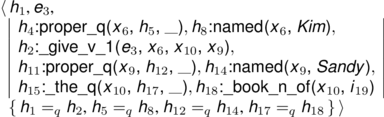
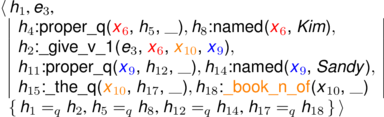
git-svn-id: http://svn.delph-in.net/erg/tags/1214@25989 3df82f5b-d43a-0410-af33-fce91db48ec5

diff --git a/www/esd/essence/kim-gave-sandy-the-book.tex b/www/esd/essence/kim-gave-sandy-the-book.tex
@@ -3,7 +3,7 @@
 \usepackage{times}
 \usepackage[utf8]{inputenc}
 \usepackage[T1]{fontenc}
-\usepackage{color}
+\usepackage{xcolor}
 
 \usepackage{../mrs}
 \rolesfalse
@@ -19,31 +19,31 @@
 
 \siblock{\sh{1}}{\svar{e}{3}{}}{%
   \sep{\sh{4}}{\spred{proper\_q\slnkc{0}{3}}}{%
-    \srole{ARG0}{\svar{x}{6}{\svp{PERS}{3}, \svp{NUM}{sg}, \svp{IND}{+}}},
+    \srole{ARG0}{\color{red}\svar{x}{6}{\svp{PERS}{3}, \svp{NUM}{sg}, \svp{IND}{+}}},
     \srole{RSTR}{\svar{h}{5}{}},
     \srole{BODY}{\srule{}}}, %\\
   \sep{\sh{8}}{\spred{named\slnkc{0}{3}}}{%
-    \srole{ARG0}{\svar{x}{6}{}},
+    \srole{ARG0}{\color{red}\svar{x}{6}{}},
     \srole{CARG}{\sconst{Kim}}},\\
   \sep{\sh{2}}{\spred{\_give\_v\_1\slnkc{4}{8}}}{%
     \srole{ARG0}{\svar{e}{3}{\svp{SF}{prop}, \svp{TENSE}{past}, \svp{MOOD}{indicative}, \svp{PROG}{-}, \svp{PERF}{-}}},
-    \srole{ARG1}{\svar{x}{6}{}},
-    \srole{ARG2}{\svar{x}{10}{\svp{PERS}{3}, \svp{NUM}{sg}, \svp{IND}{+}}},
-    \srole{ARG3}{\svar{x}{9}{\svp{PERS}{3}, \svp{NUM}{sg}, \svp{IND}{+}}}},\\
+    \srole{ARG1}{\color{red}\svar{x}{6}{}},
+    \srole{ARG2}{\color{orange}\svar{x}{10}{\svp{PERS}{3}, \svp{NUM}{sg}, \svp{IND}{+}}},
+    \srole{ARG3}{\color{blue}\svar{x}{9}{\svp{PERS}{3}, \svp{NUM}{sg}, \svp{IND}{+}}}},\\
   \sep{\sh{11}}{\spred{proper\_q\slnkc{9}{14}}}{%
-    \srole{ARG0}{\svar{x}{9}{}},
+    \srole{ARG0}{\color{blue}\svar{x}{9}{}},
     \srole{RSTR}{\svar{h}{12}{}},
     \srole{BODY}{\srule{}}}, %\\
   \sep{\sh{14}}{\spred{named\slnkc{9}{14}}}{%
-    \srole{ARG0}{\svar{x}{9}{}},
+    \srole{ARG0}{\color{blue}\svar{x}{9}{}},
     \srole{CARG}{\sconst{Sandy}}},\\
   \sep{\sh{15}}{\spred{\_the\_q\slnkc{15}{18}}}{%
-    \srole{ARG0}{\svar{x}{10}{}},
+    \srole{ARG0}{\color{orange}\svar{x}{10}{}},
     \srole{RSTR}{\svar{h}{17}{}},
     \srole{BODY}{\srule{}}}, %\\
-  \sep{\sh{18}}{\spred{\_book\_n\_of\slnkc{19}{24}}}{%
+  \sep{\sh{18}}{\color{orange}\spred{\_book\_n\_of\slnkc{19}{24}}}{%
     \srole{ARG0}{\svar{x}{10}{}},
-    \srole{ARG1}{\svar{i}{19}{}}}}
+    \srole{ARG1}{\srule{}}}}
   {\sqeq{1}{2}, \sqeq{5}{8}, \sqeq{12}{14}, \sqeq{17}{18}}
 
 \end{document}

diff --git a/www/esd/skeleton.tex b/www/esd/skeleton.tex
@@ -1,0 +1,20 @@
+\documentclass[convert={density=300,size=40\%,outext=.png}]{standalone}
+\usepackage{relsize}
+\usepackage{times}
+\usepackage[utf8]{inputenc}
+\usepackage[T1]{fontenc}
+\usepackage{xcolor}
+
+\usepackage{../mrs}
+\rolesfalse
+\propertiesfalse
+\lnkfalse
+
+%
+% red, blue, orange, green
+%
+\pagestyle{empty}
+
+\begin{document}
+
+\end{document}

diff --git a/www/esd/essence/the-cheerful-children-wanted-to-sing-and-dance.tex b/www/esd/essence/the-cheerful-children-wanted-to-sing-and-dance.tex
@@ -3,7 +3,7 @@
 \usepackage{times}
 \usepackage[utf8]{inputenc}
 \usepackage[T1]{fontenc}
-\usepackage{color}
+\usepackage{xcolor}
 
 \usepackage{../mrs}
 \rolesfalse
